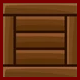
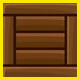
added zombie mobs super basic

Changed region(s): [[0.0, 0.0, 1.0, 1.0]]

diff --git a/v1/main.py b/v1/main.py
@@ -28,6 +28,8 @@ class Game:
         # scale up our new loaded wall image to the tilesize, if need to reuse functionality then make this a function or a class
         self.wall_img = pg.image.load(path.join(img_folder, WALL_IMG)).convert_alpha()
         self.wall_img = pg.transform.scale(self.wall_img, (TILESIZE, TILESIZE))
+        # new zombie img
+        self.mob_img = pg.image.load(path.join(img_folder, MOB_IMG)).convert_alpha()
         
         # test img stuff
         self.break_wall_0_img = pg.image.load(path.join(img_folder, BREAK_WALL_0_IMG)).convert_alpha()
@@ -50,7 +52,9 @@ class Game:
         self.break_wall_hl_3_img = pg.transform.scale(self.break_wall_hl_3_img, (TILESIZE, TILESIZE))     
         self.break_wall_hl_4_img = pg.image.load(path.join(img_folder, BREAK_WALL_HL_4_IMG)).convert_alpha()  
         self.break_wall_hl_4_img = pg.transform.scale(self.break_wall_hl_4_img, (TILESIZE, TILESIZE))         
-                 
+        self.break_wall_hl_4b_img = pg.image.load(path.join(img_folder, BREAK_WALL_HL_4B_IMG)).convert_alpha()  
+        self.break_wall_hl_4b_img = pg.transform.scale(self.break_wall_hl_4b_img, (TILESIZE, TILESIZE))  
+
         # self.player_blur3_img = pg.image.load(path.join(img_folder, PLAYER_BLUR3_IMG)).convert_alpha()
         # self.player_injury_img = pg.image.load(path.join(img_folder, PLAYER_INJURY1_IMG)).convert_alpha()
 
@@ -58,6 +62,7 @@ class Game:
         # initialize all variables and do all the setup for a new game
         self.all_sprites = pg.sprite.Group()
         self.walls = pg.sprite.Group()
+        self.mobs = pg.sprite.Group()
         self.breakablewalls = pg.sprite.Group() # should be called barricades huh
         self.unlockwalls = pg.sprite.Group()
         def spawn_stuff_on_map(first_run=True):
@@ -77,7 +82,10 @@ class Game:
                             Wall(self, col, row)
                         if tile == "B":
                             # place a breakablewall test
-                            BreakableWall(self, col, row, self.player)                       
+                            BreakableWall(self, col, row, self.player)   
+                        if tile == "Z":
+                            # place a breakablewall test
+                            Mob(self, col, row, self.player)                       
                     else:
                         # if the tile is a P, this is the player
                         if tile == "P":
@@ -114,10 +122,12 @@ class Game:
 
     def draw(self):
         # temp, set the caption of the window to be any core debug things, framerate etc
-        pg.display.set_caption(f"FPS: {self.clock.get_fps():.2f}, Energy: {self.player.sprint_meter}, State: {self.player.state_state}-{self.player.state_moving}, Interacting: {self.player.is_interacting}, Player: {self.player.pos} / {self.player.vel} / {self.player.rot:.0f}, Gold: {self.player.player_gold}") # pos, vel, rot, sprint_meter, state_moving, state_state, is_interacting, player_gold
+        pg.display.set_caption(f"FPS: {self.clock.get_fps():.2f}, Energy: {self.player.sprint_meter:.0f}, State: {self.player.state_state}-{self.player.state_moving}, Interacting: {self.player.is_interacting}, Player: {self.player.pos} / {self.player.vel} / {self.player.rot:.0f}, Gold: {self.player.player_gold}") # pos, vel, rot, sprint_meter, state_moving, state_state, is_interacting, player_gold
         # actual draw stuff
         self.screen.fill(BGCOLOR)
-        self.draw_grid()
+        want_grid = False
+        if want_grid:
+            self.draw_grid()
         for sprite in self.all_sprites:
             # take the camera and apply it to that sprite
             self.screen.blit(sprite.image, self.camera.apply(sprite))

diff --git a/v1/sprites.py b/v1/sprites.py
@@ -250,6 +250,16 @@ class Player(pg.sprite.Sprite):
             if space_end - self.waiting_print >= 1000:
                 self.waiting_print = False                
         
+        
+class Mob(pg.sprite.Sprite):
+    def __init__(self, game, x, y, player, hp=0):
+        self.groups = game.all_sprites, game.mobs
+        pg.sprite.Sprite.__init__(self, self.groups)
+        self.image = game.mob_img
+        self.rect = self.image.get_rect()
+        self.pos = vec(x, y) * TILESIZE
+        self.rect.center = self.pos
+
 
 class Wall(pg.sprite.Sprite):
     def __init__(self, game, x, y):
@@ -302,7 +312,6 @@ class BreakableWall(pg.sprite.Sprite): # should be called barricades huh
     def try_repair_wall(self):
         # we're using delta time now for 1 second, see historical_backups v1_6 for the percent meter version (which is kinda better tbf but added complexity at this stage has diminishing returns)
         self.do_one_repair()
-        
         # for infectious buildling, repairing a tile will repairing any that are touching it
         for a_wall in self.wall_ids:
             # check if we this wall is near any other walls
@@ -347,7 +356,12 @@ class BreakableWall(pg.sprite.Sprite): # should be called barricades huh
         # if box has 1 hp
         elif self.hp_current == 4:
             if is_near:
-                self.image = self.game.break_wall_hl_4_img # if near use the highlighted version
+                if self.player.is_interacting:
+                    # render slightly reddened version
+                    self.image = self.game.break_wall_hl_4b_img
+                else:
+                    # else normal yellow highlight
+                    self.image = self.game.break_wall_hl_4_img # if near use the highlighted version
             else:
                 self.image = self.game.break_wall_4_img           
 
@@ -384,8 +398,10 @@ class BreakableWall(pg.sprite.Sprite): # should be called barricades huh
     def do_one_repair(self): # temp test for now
         # use waiting var to only do 1 interaction per x, tho should use is_interacting thing instead < do this asap as stateness duh
         if not self.player.waiting:
-            self.hp_current = self.hp_current + 1
-            print(f"DONE REPAIR {self.myid=} {self.hp_current=} - interactions disabled")
+            if self.hp_current < self.hp_max:
+                self.hp_current = self.hp_current + 1
+                print(f"DONE REPAIR {self.myid=} {self.hp_current=} - interactions disabled")
+            # pressing when you cant buy will still take an action ??
             self.player.waiting = pg.time.get_ticks()
 
     def update(self):
@@ -393,13 +409,7 @@ class BreakableWall(pg.sprite.Sprite): # should be called barricades huh
         self.rect.x = self.pos.x
         self.rect.y = self.pos.y
         if self.is_near(None, None):  
-            # if the wall can be rebuilt more still
-            if self.hp_current < self.hp_max:
-                # if self.player.is_interacting == False: and the player isn't interacting with anything, currently only the 'e' aka 'build' key but will be others for sure, sprint too surely duhhh!
-                self.update_image(True)
-            else:
-                # can just use a dull highlight on full hp box img as thats always what this will be, is handy tbf
-                self.image = self.game.break_wall_hl_4_img
+            self.update_image(True)
         else:
             self.update_image()
 

diff --git a/v1/settings.py b/v1/settings.py
@@ -31,14 +31,15 @@ MOONGLOW = (235,245,255)        # KINDA CRISPY BRIGHT GREY WITH HINT OF BLUE, QU
 BROWNTONE1 = (123, 111, 100)    # (119, 99, 80)
 BROWNTONE2 = (114, 88, 61)      # FOR BUILDING BARRACADES
 BROWNTONE3 = (101, 66, 22)      # FOR BUILDING BARRACADES
-BROWNTONE4 = (66, 40, 2)      # HOVERING FULLY BUILT BARRACADE, SHOWS SLIGHTLY DARKER TO INDICATE NULL INTERACTION BETTER THAN NOTHING 
+BROWNTONE4 = (66, 40, 2)        # HOVERING FULLY BUILT BARRACADE, SHOWS SLIGHTLY DARKER TO INDICATE NULL INTERACTION BETTER THAN NOTHING 
+BROWNPALE =  (215, 195, 163)
 
 # game settings
 WIDTH = 1024   # 16 * 64 or 32 * 32 or 64 * 16
 HEIGHT = 768  # 16 * 48 or 32 * 24 or 64 * 12
 FPS = 60
 TITLE = "Tilemap Demo"
-BGCOLOR = DARKGREY
+BGCOLOR = BROWNPALE
 
 TILESIZE = 64 # default 32, increase the tilesize to zoom in further (i.e. 64 for twice as close), or decrease (by multiples of 2) to zoom out
 GRIDWIDTH = WIDTH / TILESIZE
@@ -49,6 +50,9 @@ PLAYER_SPEED = 320
 PLAYER_ROT_SPEED = 250 # degrees per second, so just under 1 second to go all the way around (1 rotation)
 PLAYER_IMG = "manBlue_gun.png"
 PLAYER_HIT_RECT = pg.Rect(0,0,20,20)
+
+# Mob (Zombie) settings
+MOB_IMG = "zoimbie1_hold.png"
 
 # More Image settings
 WALL_IMG = "tileBrick_01.png" # tileGreen_39.png note is also 108 x 108 (not right size btw)
@@ -64,6 +68,7 @@ BREAK_WALL_HL_1_IMG = "wallTestHL_1.png"
 BREAK_WALL_HL_2_IMG = "wallTestHL_2.png"
 BREAK_WALL_HL_3_IMG = "wallTestHL_3.png"
 BREAK_WALL_HL_4_IMG = "wallTestHL_4.png"
+BREAK_WALL_HL_4B_IMG = "wallTestHL_4b.png"
 
 # new test stuff
 PLAYER_BLUR1_IMG = "manBlue_gun_blur1.png"
